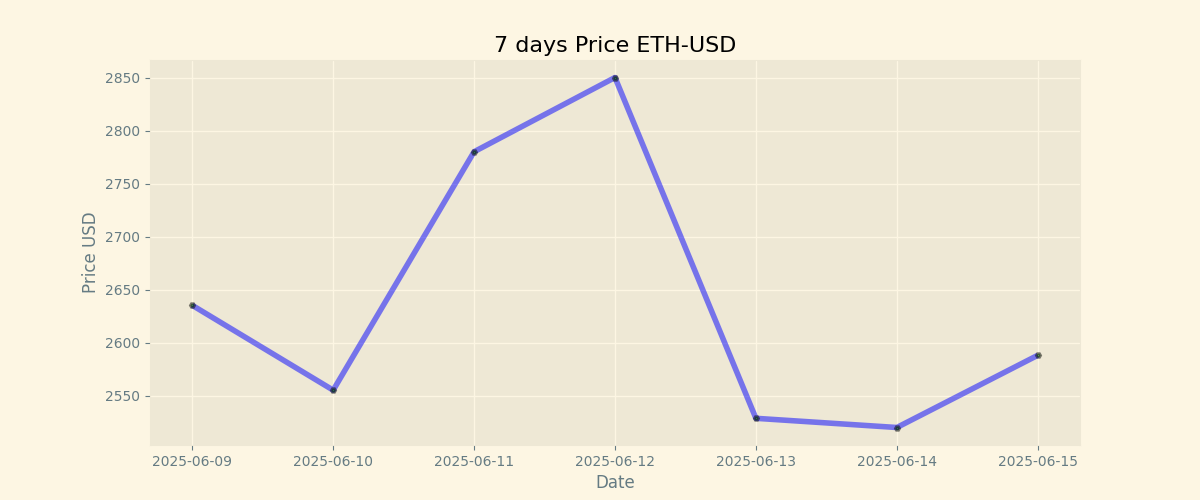
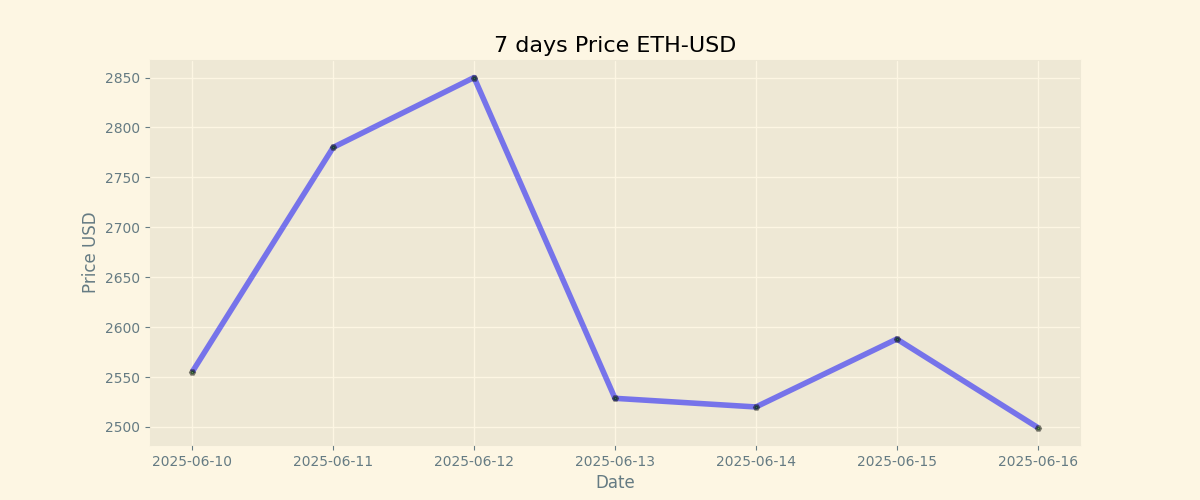
Duty Updates 2025-06-16

diff --git a/README.md b/README.md
@@ -9,8 +9,8 @@
 
 | Currency | Price           |
 | -------- | --------------- |
-| **BTC**  | **$ 107571.0** |
-| **ETH**  | **$ 2588.06** |
+| **BTC**  | **$ 107961.94** |
+| **ETH**  | **$ 2499.43** |
 
 ## BTC chart
 
